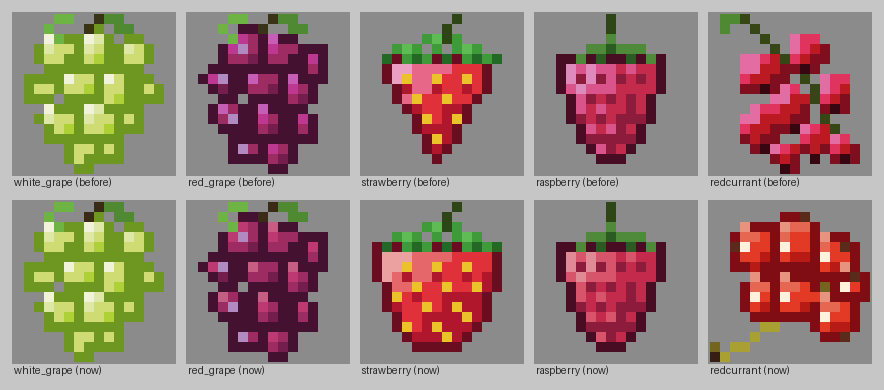
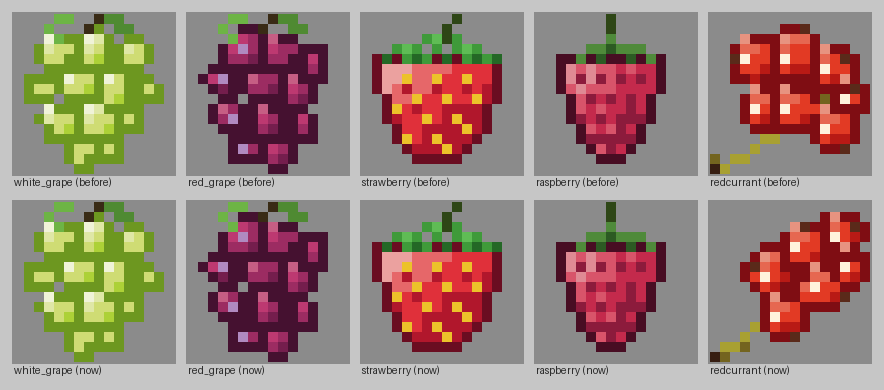
Lay the redcurrants along their stem
The stem now runs from the bottom left on up through the cluster, with the
berries in two rows either side of it, as in the reference.

Claude-Session: https://claude.ai/code/session_015LnbBras9DEmUQEKydUTyp

diff --git a/.workflow/art/item_sprites.py b/.workflow/art/item_sprites.py
@@ -981,13 +981,14 @@ def redcurrant_hand():
     s = Sprite()
     red = ramp("#e23a24", spread=0.8)
     stem = ramp("#a8a032")
-    # A yellow-green stem sweeping in from the bottom left, with short stalks up into the cluster.
-    s.pixels_at(stem[BASE], [(0, 15), (1, 15), (2, 14), (3, 14), (4, 13), (5, 12), (6, 12), (7, 11), (8, 10), (9, 9)])
-    s.pixels_at(stem[SHADOW], [(0, 14), (6, 11), (10, 9), (11, 8)])
+    # The stem sweeps in from the bottom left and runs on up through the cluster, so the berries lie along it.
+    s.pixels_at(stem[BASE], [(0, 15), (1, 14), (2, 14), (3, 13), (4, 12), (5, 11), (6, 10), (7, 9), (8, 8), (9, 7), (10, 6),
+                             (11, 5), (12, 4)])
+    s.pixels_at(stem[SHADOW], [(1, 15), (3, 14)])
     s.pixels_at(ramp("#6b4226")[SHADOW], [(0, 15)])
-    # Glossy berries in two overlapping rows, back row first. Each has a white shine and some show their dark tip.
-    berries = [(4.6, 4.8, 2.8, (2, 4)), (8.6, 4.0, 3.1, (9, 1)), (12.4, 5.2, 2.7, (13, 4)), (14.0, 8.8, 2.2, (14, 7)),
-               (5.4, 9.4, 2.6, None), (8.8, 9.6, 2.9, (11, 10)), (12.6, 11.2, 2.6, (13, 13))]
+    # Glossy berries in two rows either side of the stem, the upper row behind. Each has a white shine, some a dark tip.
+    berries = [(6.0, 7.0, 2.6, (4, 6)), (9.6, 4.6, 2.9, (9, 2)), (13.2, 3.0, 2.4, (14, 2)),
+               (7.6, 11.2, 2.7, (8, 13)), (11.2, 8.6, 2.9, (13, 9)), (14.0, 6.6, 2.0, None)]
     shine = ramp("#fff2dc")[BASE]
     for cx, cy, r, tip in berries:
         s.ellipse(red, cx, cy, r, r, light=(-0.6, -0.8))
